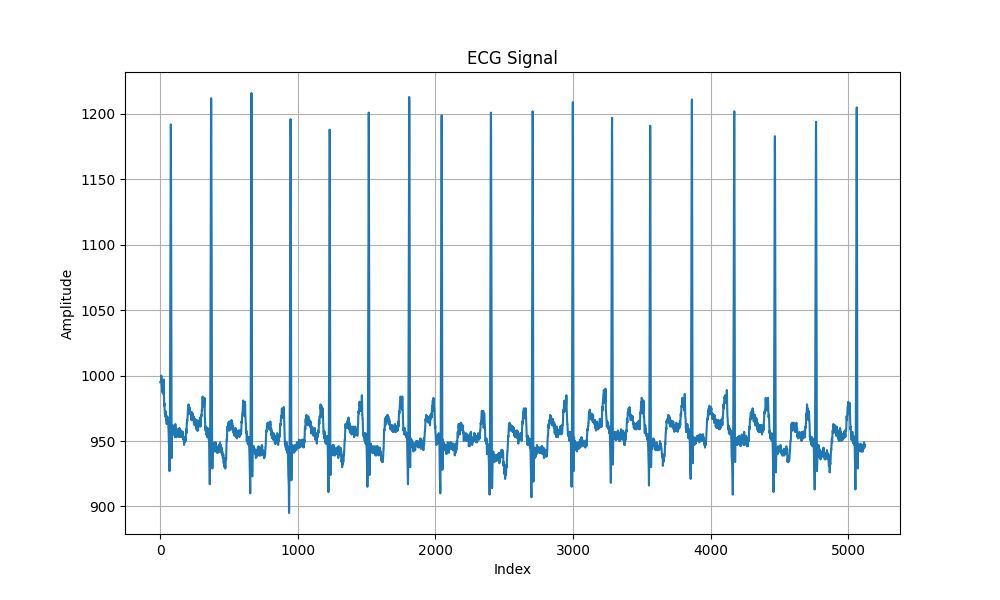
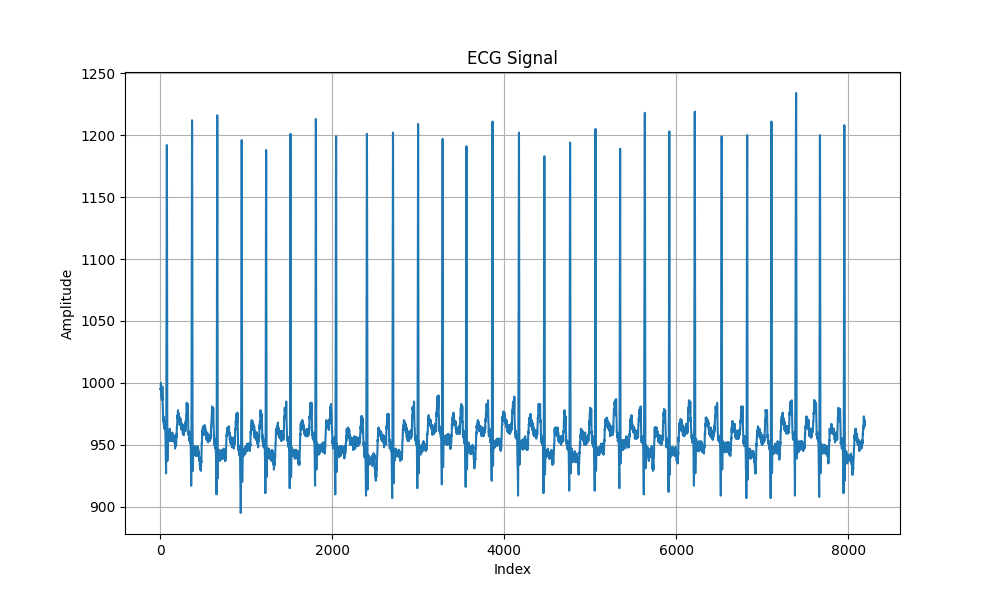
non blocking plots

diff --git a/scripts/main_run.py b/scripts/main_run.py
@@ -5,14 +5,14 @@ import compSensPack as csp
 
 def main():    
 
-
-
+    # non blocking plots
+    plt.ion()
 
     # I put this here because you have to decide kron fact based on
     # the signal length, but for testing reasons I prefer to do the 
     # opposite: choose signal length based on kron factor
     
-    n_block = 16 # block size, deafult is 16
+    n_block = 64 # block size, deafult is 16
     kron_factor = n_block * 2  # kron factor default is 32
 
 
@@ -25,7 +25,7 @@ def main():
     key = list(data.keys())[0]
     # retrieve the values
     signal = data[key][0,:]  # [0 or 1, 0:650000] s.t. first dim: (0 is MLII, 1 is V5)
-    num = 10  # how many kronecker blocks will be long the original signals
+    num = 1  # how many kronecker blocks will be long the original signals
     temp = n_block * kron_factor  # this is equal to the length of a kronecker block
     start = int(temp * 0)  # choose where to start our signal in the record (signal is a piece of the record)
     end = int(start + temp * num)
